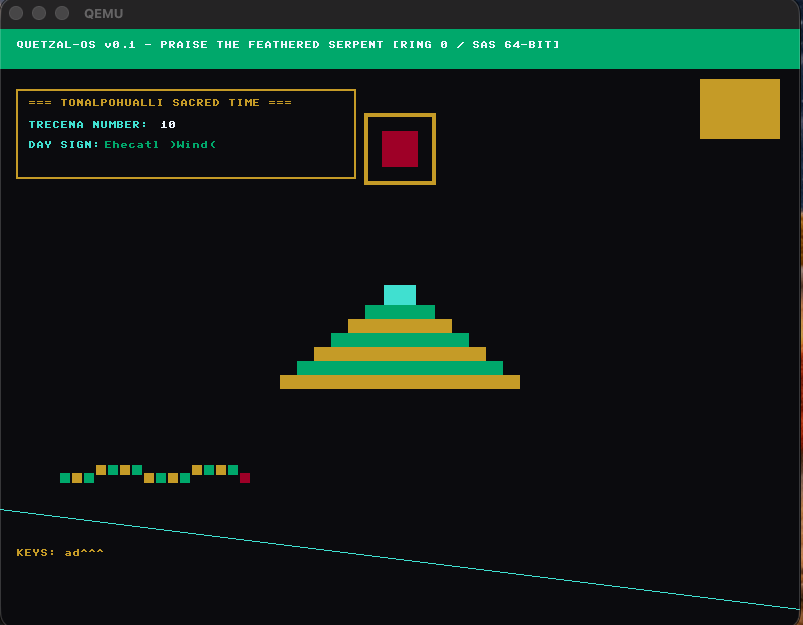
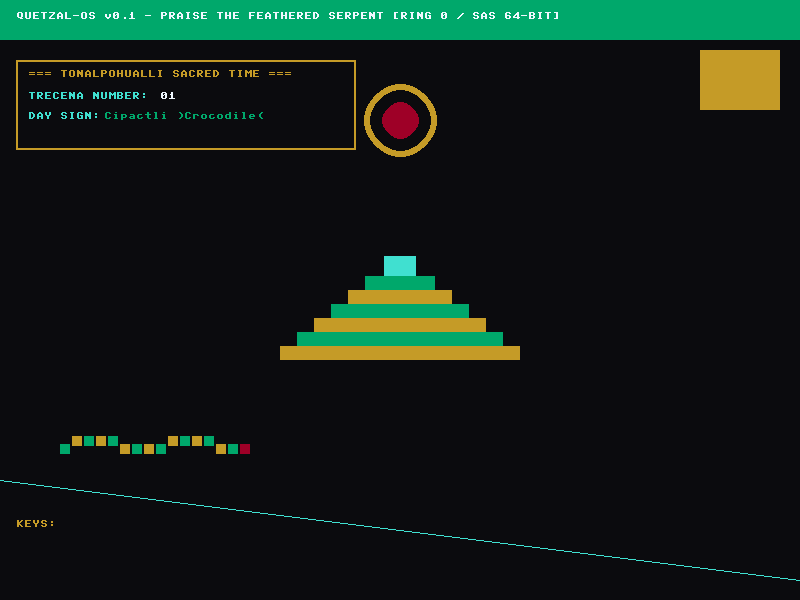
Implement Midpoint Circle primitives and update sun disk geometry (Fixes #2)

diff --git a/kernel/drivers/vbe.c b/kernel/drivers/vbe.c
@@ -196,6 +196,74 @@ void vbe_draw_line(uint32_t x0, uint32_t y0, uint32_t x1, uint32_t y1, uint32_t 
     }
 }
 
+static void vbe_draw_hline(int x0, int x1, int y, uint32_t color) {
+    if (y < 0 || (uint32_t)y >= fb_h) return;
+    if (x0 > x1) { int tmp = x0; x0 = x1; x1 = tmp; }
+    if (x1 < 0 || (uint32_t)x0 >= fb_w) return;
+    if (x0 < 0) x0 = 0;
+    if ((uint32_t)x1 >= fb_w) x1 = (int)fb_w - 1;
+
+    for (int px = x0; px <= x1; px++) {
+        vbe_put_pixel((uint32_t)px, (uint32_t)y, color);
+    }
+}
+
+void vbe_draw_circle(uint32_t cx, uint32_t cy, uint32_t radius, uint32_t color) {
+    if (fb_w == 0 || fb_h == 0) return;
+    if (radius == 0) {
+        vbe_draw_pixel(cx, cy, color);
+        return;
+    }
+
+    int x = (int)radius;
+    int y = 0;
+    int err = 0;
+
+    while (x >= y) {
+        vbe_draw_pixel((uint32_t)((int)cx + x), (uint32_t)((int)cy + y), color);
+        vbe_draw_pixel((uint32_t)((int)cx + y), (uint32_t)((int)cy + x), color);
+        vbe_draw_pixel((uint32_t)((int)cx - y), (uint32_t)((int)cy + x), color);
+        vbe_draw_pixel((uint32_t)((int)cx - x), (uint32_t)((int)cy + y), color);
+        vbe_draw_pixel((uint32_t)((int)cx - x), (uint32_t)((int)cy - y), color);
+        vbe_draw_pixel((uint32_t)((int)cx - y), (uint32_t)((int)cy - x), color);
+        vbe_draw_pixel((uint32_t)((int)cx + y), (uint32_t)((int)cy - x), color);
+        vbe_draw_pixel((uint32_t)((int)cx + x), (uint32_t)((int)cy - y), color);
+
+        y++;
+        err += 1 + 2 * y;
+        if (2 * (err - x) + 1 > 0) {
+            x--;
+            err += 1 - 2 * x;
+        }
+    }
+}
+
+void vbe_fill_circle(uint32_t cx, uint32_t cy, uint32_t radius, uint32_t color) {
+    if (fb_w == 0 || fb_h == 0) return;
+    if (radius == 0) {
+        vbe_draw_pixel(cx, cy, color);
+        return;
+    }
+
+    int x = (int)radius;
+    int y = 0;
+    int err = 0;
+
+    while (x >= y) {
+        vbe_draw_hline((int)cx - x, (int)cx + x, (int)cy + y, color);
+        vbe_draw_hline((int)cx - x, (int)cx + x, (int)cy - y, color);
+        vbe_draw_hline((int)cx - y, (int)cx + y, (int)cy + x, color);
+        vbe_draw_hline((int)cx - y, (int)cx + y, (int)cy - x, color);
+
+        y++;
+        err += 1 + 2 * y;
+        if (2 * (err - x) + 1 > 0) {
+            x--;
+            err += 1 - 2 * x;
+        }
+    }
+}
+
 void vbe_draw_char(uint32_t x, uint32_t y, char c, uint32_t fg, uint32_t bg) {
     uint8_t idx = (uint8_t)c;
     if (idx >= 128u) idx = '?';

diff --git a/kernel/graphics/ritual_geo.c b/kernel/graphics/ritual_geo.c
@@ -44,20 +44,19 @@ void draw_feathered_serpent(uint32_t start_x, uint32_t start_y, uint32_t length,
 
 void draw_sun_disk(uint32_t cx, uint32_t cy, uint32_t radius, uint64_t tick) {
     (void)tick;
-    /* Draw outer solar ring with origin underflow checks */
-    uint32_t min_x = (cx >= radius) ? (cx - radius) : 0;
-    uint32_t min_y = (cy >= radius) ? (cy - radius) : 0;
-    vbe_fill_rect(min_x, min_y, radius * 2, radius * 2, COLOR_AZTEC_GOLD);
+    /* Outer solar disc in Aztec Gold */
+    vbe_fill_circle(cx, cy, radius, COLOR_AZTEC_GOLD);
 
-    if (radius > 4) {
-        uint32_t inner_rad = radius - 4;
-        uint32_t inner_x = (cx >= inner_rad) ? (cx - inner_rad) : 0;
-        uint32_t inner_y = (cy >= inner_rad) ? (cy - inner_rad) : 0;
-        vbe_fill_rect(inner_x, inner_y, inner_rad * 2, inner_rad * 2, COLOR_OBSIDIAN);
+    /* Inner obsidian solar ring */
+    if (radius > 6) {
+        vbe_fill_circle(cx, cy, radius - 6, COLOR_OBSIDIAN);
     }
 
-    uint32_t half_rad = radius / 2;
-    uint32_t center_x = (cx >= half_rad) ? (cx - half_rad) : 0;
-    uint32_t center_y = (cy >= half_rad) ? (cy - half_rad) : 0;
-    vbe_fill_rect(center_x, center_y, radius, radius, COLOR_COCHINEAL_RED);
+    /* Core solar center in Cochineal Red */
+    if (radius > 12) {
+        vbe_fill_circle(cx, cy, radius / 2, COLOR_COCHINEAL_RED);
+    }
+
+    /* Outer golden corona ring outline */
+    vbe_draw_circle(cx, cy, radius, COLOR_AZTEC_GOLD);
 }

diff --git a/kernel/serpentc/builtins.c b/kernel/serpentc/builtins.c
@@ -80,6 +80,16 @@ int dispatch_builtin(const char* name, size_t len, const uint32_t* args, size_t 
             vbe_fill_rect(args[0], args[1], args[2], args[3], args[4]);
             return 1;
         }
+    } else if (str_equal(name, len, "feather_draw_circle")) {
+        if (arg_count >= 4) {
+            vbe_draw_circle(args[0], args[1], args[2], args[3]);
+            return 1;
+        }
+    } else if (str_equal(name, len, "feather_circle") || str_equal(name, len, "feather_fill_circle")) {
+        if (arg_count >= 4) {
+            vbe_fill_circle(args[0], args[1], args[2], args[3]);
+            return 1;
+        }
     } else if (str_equal(name, len, "feather_clear")) {
         if (arg_count >= 1) {
             vbe_clear(args[0]);

diff --git a/kernel/drivers/vbe.h b/kernel/drivers/vbe.h
@@ -28,6 +28,8 @@ void vbe_draw_pixel(uint32_t x, uint32_t y, uint32_t color);
 void vbe_clear(uint32_t color);
 void vbe_fill_rect(uint32_t x, uint32_t y, uint32_t w, uint32_t h, uint32_t color);
 void vbe_draw_line(uint32_t x0, uint32_t y0, uint32_t x1, uint32_t y1, uint32_t color);
+void vbe_draw_circle(uint32_t cx, uint32_t cy, uint32_t radius, uint32_t color);
+void vbe_fill_circle(uint32_t cx, uint32_t cy, uint32_t radius, uint32_t color);
 void vbe_draw_char(uint32_t x, uint32_t y, char c, uint32_t fg, uint32_t bg);
 void vbe_draw_string(uint32_t x, uint32_t y, const char* str, uint32_t fg, uint32_t bg);
 void vbe_swap_buffers(void);